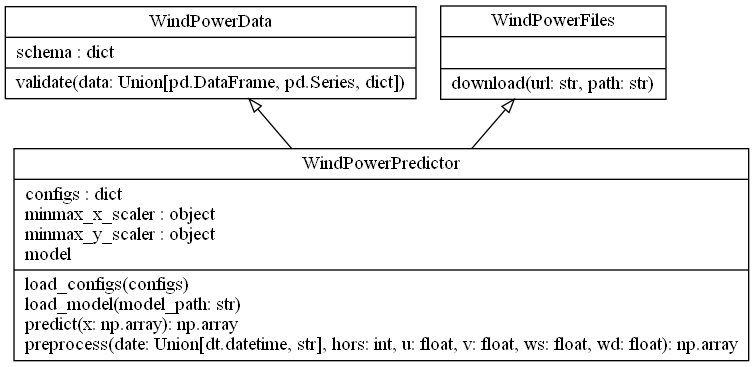
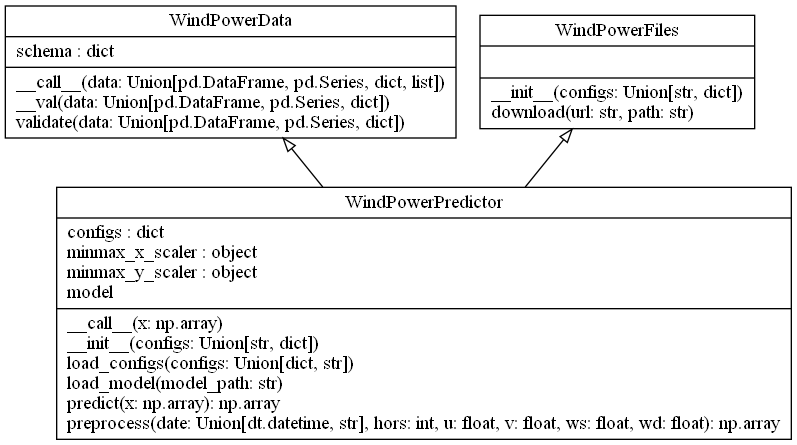
updated predictor to accept list

Changed region(s): [[0.0, 0.0, 1.0, 0.9891]]

diff --git a/model/data.py b/model/data.py
@@ -19,7 +19,7 @@ class WindPowerData:
         "wd": (float, np.float),
     }
 
-    def validate(self, data: Union[pd.DataFrame, pd.Series, dict]):
+    def __val(self, data: Union[pd.DataFrame, pd.Series, dict]):
         """Loops through data to ensure schema is respected"""
         for k, v in self.schema.items():
             assert k in data.keys(), f"{k} not in data!"
@@ -39,7 +39,10 @@ class WindPowerData:
             result = [data[k] for k in self.schema.keys()]
             return np.array(result)
 
+    def validate(self, data: Union[pd.DataFrame, pd.Series, dict]):
+        if isinstance(data, (list, np.ndarray)):
+            return np.array([self.__val(i) for i in data])
+        return self.__val(data)
+
     def __call__(self, data: Union[pd.DataFrame, pd.Series, dict, list]):
-        if isinstance(data, list):
-            return np.array([self.validate(i) for i in data])
         return self.validate(data)

diff --git a/model/predictor.py b/model/predictor.py
@@ -52,7 +52,8 @@ class WindPowerPredictor(WindPowerFiles, WindPowerData):
         self.minmax_x_scaler: object = joblib.load(self.configs["minmax_x_scaler_path"])
         self.minmax_y_scaler: object = joblib.load(self.configs["minmax_y_scaler_path"])
 
-    def load_configs(self, configs):
+    def load_configs(self, configs: Union[dict, str]):
+        """Loads configs. Can be either a `dict` or `path_to_config_yml`"""
         if isinstance(configs, str):
             with open(configs, "r") as f:
                 return yaml.safe_load(f)
